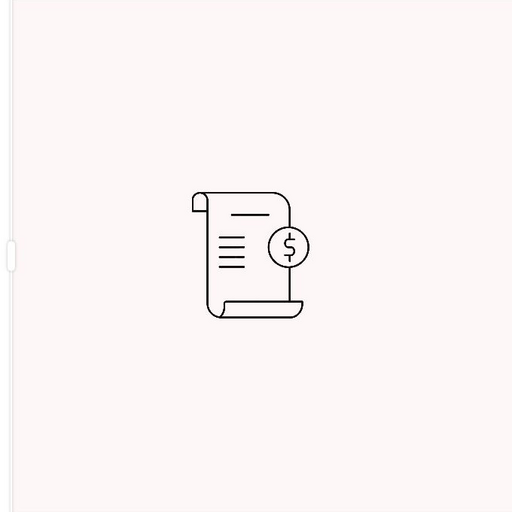
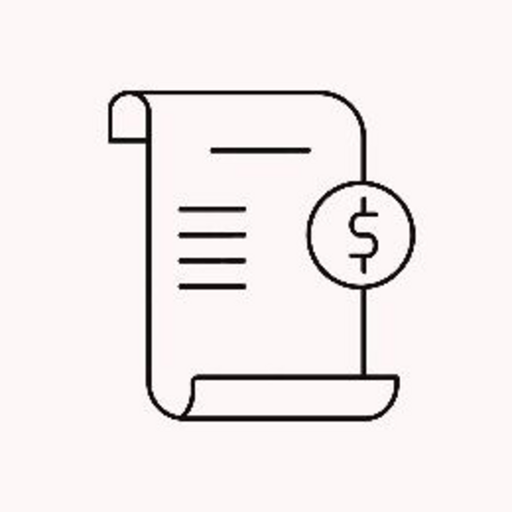
Add files via upload

Changed region(s): [[0.1875, 0.1562, 0.8125, 0.8438], [0.4062, 0.2812, 0.625, 0.3125]]

diff --git a/index.html b/index.html
@@ -390,7 +390,7 @@
     <section class="panel" data-panel="settings">
       <div class="settings-box">
         <div class="card"><h2>データ管理</h2><div class="card-body"><p class="hint">この版は端末内に保存します。Safari/Chromeで同じURLを開けば使えますが、端末間の自動同期はまだ行いません。実データはGitHubへ送信されません。ブラウザデータを消す前にJSONバックアップを保存してください。</p><div class="toolbar"><button class="secondary" id="exportBtn">JSONを書き出す</button><label class="secondary" style="cursor:pointer">JSONを読み込む<input id="importInput" type="file" accept="application/json" hidden></label><button class="danger" id="resetBtn">データ初期化</button></div></div></div>
-        <div class="card"><h2>このアプリについて</h2><div class="card-body"><p class="hint">Excel家計簿の構成をベースに、収入・税金・貯蓄・自己投資・固定費・特別費・変動費を月単位で管理できます。iPhone/iPadでは「ホーム画面に追加」でPWAとして利用できます。</p><span class="pill">PWA対応</span> <span class="pill">オフライン対応</span> <span class="pill">レスポンシブ</span> <span class="pill">v2.2.1</span></div></div>
+        <div class="card"><h2>このアプリについて</h2><div class="card-body"><p class="hint">Excel家計簿の構成をベースに、収入・税金・貯蓄・自己投資・固定費・特別費・変動費を月単位で管理できます。iPhone/iPadでは「ホーム画面に追加」でPWAとして利用できます。</p><span class="pill">PWA対応</span> <span class="pill">オフライン対応</span> <span class="pill">レスポンシブ</span> <span class="pill">v2.2.2</span></div></div>
       </div>
     </section>
   </main>

diff --git a/sw.js b/sw.js
@@ -1,4 +1,4 @@
-const CACHE_NAME='kakeibo-v2.2.1-icon';
+const CACHE_NAME='kakeibo-v2.2.2-large-icon';
 const APP_SHELL=['./','./index.html','./manifest.json','./icon-192.png','./icon-512.png'];
 self.addEventListener('install',event=>{event.waitUntil(caches.open(CACHE_NAME).then(cache=>cache.addAll(APP_SHELL)).then(()=>self.skipWaiting()))});
 self.addEventListener('activate',event=>{event.waitUntil(caches.keys().then(keys=>Promise.all(keys.filter(k=>k!==CACHE_NAME).map(k=>caches.delete(k)))).then(()=>self.clients.claim()))});

diff --git a/README.md b/README.md
@@ -34,6 +34,10 @@ Excel家計簿をベースにした iPhone / iPad / Mac 対応のレスポンシ
 - ダークモード時の表・入力欄・カード色を最適化
 
 
+## v2.2.2
+
+- ホーム画面で見やすいようPWAアイコンの絵柄を拡大
+
 ## v2.2.1
 
 - PWAアイコンをレシートと円マークのデザインへ変更
